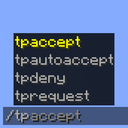
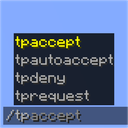
Limit Minecraft to 26.2.x on NeoForge and pin the conventions at 2.4.16
NeoForge now uses the conventions' ${minecraft_version_range}, matching Fabric's ~${minecraft_version}; loaders and libraries stay open-ended.

The icon is now square at a power of two (512 or 1024 px); docs/icon/README.md records how it was rescaled.

diff --git a/docs/icon/provenance/native_scale.py b/docs/icon/provenance/native_scale.py
@@ -1,0 +1,68 @@
+#!/usr/bin/env python3
+"""Turn the native capture crop into the shipped square icon (Pillow 12.3.0).
+
+The crop is Minecraft GUI pixel art: every GUI pixel is a BLOCK x BLOCK square of one
+colour. This script recovers the native GUI-pixel image by taking each block's majority
+colour (ties, which only occur on the faint sky-gradient seams, go to the candidate
+colour that is most common in the surrounding 3x3 blocks, then to the smallest RGB
+value), enlarges it FACTOR times with NEAREST, centres it on a transparent CANVAS x CANVAS
+square and writes ../icon.png. The mod's shipped copies are that icon resized to 128x128
+with LANCZOS.
+
+Run from docs/icon/provenance: python3 native_scale.py
+"""
+from collections import Counter
+from pathlib import Path
+
+from PIL import Image
+
+HERE = Path(__file__).resolve().parent
+REPO = HERE.parents[2]
+SOURCE = HERE / "capture-crop.png"  # the delivered 340x340 capture crop; its source frame is lost
+BOX = None
+BLOCK, FACTOR, CANVAS = 4, 6, 512  # GUI scale 4 -> 85x85 native, x6 = 510 on 512
+SHIPPED = (
+    "common/src/main/resources/assets/simpletpa/icon.png",
+    "fabric/src/gametest/resources/assets/simpletpa/icon.png",
+)
+
+
+def native(crop):
+    w, h = crop.size
+    assert w % BLOCK == 0 and h % BLOCK == 0, (w, h, BLOCK)
+    px = crop.load()
+    nw, nh = w // BLOCK, h // BLOCK
+    counts = [
+        [Counter(px[bx * BLOCK + i, by * BLOCK + j] for i in range(BLOCK) for j in range(BLOCK)) for bx in range(nw)]
+        for by in range(nh)
+    ]
+    out = Image.new("RGB", (nw, nh))
+    op = out.load()
+    ties = 0
+    for by in range(nh):
+        for bx in range(nw):
+            c = counts[by][bx]
+            top = max(c.values())
+            cands = [col for col, n in c.items() if n == top]
+            if len(cands) > 1:
+                ties += 1
+                around = Counter()
+                for y in range(max(0, by - 1), min(nh, by + 2)):
+                    for x in range(max(0, bx - 1), min(nw, bx + 2)):
+                        around.update(counts[y][x])
+                cands.sort(key=lambda col: (-around[col], col))
+            op[bx, by] = cands[0]
+    return out, ties
+
+
+crop = Image.open(SOURCE).convert("RGB")
+if BOX is not None:
+    crop = crop.crop(BOX)
+small, ties = native(crop)
+big = small.resize((small.width * FACTOR, small.height * FACTOR), Image.Resampling.NEAREST)
+icon = Image.new("RGBA", (CANVAS, CANVAS))
+icon.paste(big, ((CANVAS - big.width) // 2, (CANVAS - big.height) // 2))
+icon.save(HERE.parent / "icon.png")
+for rel in SHIPPED:
+    icon.resize((128, 128), Image.Resampling.LANCZOS).save(REPO / rel)
+print(f"native {small.size}, {ties} tied blocks, x{FACTOR} -> {big.size} centred on {CANVAS}x{CANVAS}")

diff --git a/docs/icon/README.md b/docs/icon/README.md
@@ -2,11 +2,15 @@
 
 ## What this is
 
-The mod's icon: `icon.png` — 340x340 RGB PNG, 2 927 bytes,
[1 lines of base64/hex data omitted]
+The mod's icon: `icon.png` — 512x512 RGBA PNG, 4 573 bytes,
[1 lines of base64/hex data omitted]
 
-It is a real in-game screenshot of the mod's `/tp` tab-completion, cropped to a square at
-native GUI scale 4. No resize, no resampling, no interpolation, no compositing, no padding.
+It is a real in-game screenshot of the mod's `/tp` tab-completion: the 340x340 square capture
+crop `provenance/capture-crop.png` (GUI scale 4), reduced to its native 85x85 GUI pixels,
+enlarged 6x with NEAREST to 510x510 and centred on a transparent 512x512 canvas (1 px margin).
+No interpolation, no compositing. The mod ships 128x128 LANCZOS reductions of `icon.png` at
+`common/src/main/resources/assets/simpletpa/icon.png` and
+`fabric/src/gametest/resources/assets/simpletpa/icon.png`.
 
 ## How it was made
 
@@ -29,13 +33,26 @@ The screenshot itself comes from the BrainageHUD/UI capture session (round-3 `ca
 The client completes `/tp` to `/tpaccept` and draws the completions `tpaccept` (selected,
 yellow), `tpautoaccept`, `tpdeny` and `tprequest` above the input line.
 
-The delivered image is the exact integer crop `(0, 1820, 340, 2160)` of that 3840x2160 frame.
+The capture crop `provenance/capture-crop.png` (340x340 RGB, 2 927 bytes, sha256
[1 lines of base64/hex data omitted]
+shipped as `icon.png` itself, moved here unchanged) is the exact integer crop
+`(0, 1820, 340, 2160)` of that 3840x2160 frame.
 It was derived twice: `captures-crops/crop.py` measured the entry block by ink detection and
 produced a 340x340 square by trimming 52 px from the top and the right of the previous
 392x392 crop, then `captures-crops2/crop.py` copied that file byte for byte into the round-3
 delivery tree, and `captures-crops2/verify.py` asserted the byte identity.
 
-Layout inside the delivered image (measured, native pixels): the entry block (the suggestion
+**Native-scale enlargement (2026-10-02).** The icon rule is square, a power of two, 512 or
+1024 px. The crop is pixel art: 13 colours, on GUI scale 4's 4x4 grid (aligned with the crop).
+7 121 of its 7 225 blocks are a single colour; the other 104 lie on faint diagonal seams in the
+sky and panel shading where the colours differ by at most 1 level per channel.
+`native_scale.py` takes each block's majority colour (7 blocks have no strict majority and go to
+the colour that dominates the surrounding 3x3 blocks) to recover the native 85x85 image, enlarges
+it by the largest integer factor that fits 512 (6x, 510x510) with NEAREST, and centres it on
+a transparent 512x512 canvas. A LANCZOS 340→512 resize was rejected because it blurs every
+GUI pixel edge.
+
+Layout inside the capture crop (measured, crop pixels): the entry block (the suggestion
 panel including its translucent background) occupies `x 36..303, y 88..280`, so the sky
 margins are exactly 36 px left and 36 px right; the chat input line below shows `/tpaccept`
 and its text ink (`x 16..215`) is fully inside the crop. The frame's full-width chat bar runs
@@ -49,8 +66,10 @@ top level (and `evidence/`) is the later round-3 delivery pass that copied and r
 
 | Path | What it is |
 |---|---|
+| `capture-crop.png` | **The 340x340 capture crop** (formerly `icon.png`, byte-identical) — the only surviving copy of this crop |
+| `native_scale.py` | **The script that writes `icon.png`** from `capture-crop.png` (native 85x85 recovery, 6x NEAREST, centred on 512x512) and the two shipped 128x128 copies |
 | `manifest.json` | Round-3 delivery record: label, method ("byte-identical copy of approved reference"), source, measured sky margins, ink box and crop box |
-| `captures-crops/crop.py` | **The script that produced the image** — ink detection on the 3840x2160 frame, square side `2 * sky_left + block_width`, anchored on the frame's left/bottom edge, with assertions that the block and the input line stay inside |
+| `captures-crops/crop.py` | **The script that produced the capture crop** — ink detection on the 3840x2160 frame, square side `2 * sky_left + block_width`, anchored on the frame's left/bottom edge, with assertions that the block and the input line stay inside |
 | `captures-crops/crop-report.json` | Full measurement of the derivation: old 392 px square and its 88 px right margin, the new 340 px square, the entry block, the four entry line boxes, the glyph-only 344 px alternative, the 52 px top/right trim, the chat-bar top, and the per-file verification |
 | `captures-crops/verify.py`, `captures-crops/verification.json` | The independent re-check: exact pixels from the frame, sky left == sky right == 36 px, all four entries and the input line fully inside |
 | `captures-crops/ocr.py`, `captures-crops/ocr.json` | Exact client-font template matching that decodes the four entry texts and the input line — this is how the entries are named with certainty |
@@ -67,8 +86,15 @@ superseded 392x392 crop of the same frame.
 
 ## How to regenerate
 
-The image cannot be regenerated from anything shipped here, because its source frame was
-destroyed (Notes). The two derivations are nonetheless fully documented:
+`icon.png` is regenerated from the shipped capture crop (Pillow 12.3.0, from
+`docs/icon/provenance`):
+
+```sh
+python3 native_scale.py    # prints: native (85, 85), 7 tied blocks, x6 -> (510, 510) centred on 512x512
+```
+
+The capture crop itself cannot be regenerated from anything shipped here, because its source
+frame was destroyed (Notes). The two derivations are nonetheless fully documented:
 
 ```sh
 # 1. recreate the frame: re-run the UI capture session (see BrainageHUD's provenance)
@@ -90,10 +116,10 @@ superseded icons and are not needed for this one.
 * **The source frame is gone.** `captures-crops/blockers.json` records it: the full-frame files
   referenced by the crop report (`captures-ui/renders/frames/simpletpa-tp-full.png`) were
   deleted before the later crop pass, and re-opening them raised `FileNotFoundError`. The
-  approved 340x340 PNG survived, and that PNG is the delivered icon — it is the only surviving
-  copy of this crop. Both sessions' measurement records are shipped, so the geometry remains
-  reproducible *if* the scene is re-captured.
-* The delivered file is byte-identical to the earlier approved reference
+  approved 340x340 PNG survived, and that PNG is `capture-crop.png` (shipped as the icon until
+  2026-10-02) — it is the only surviving copy of this crop. Both sessions' measurement records
+  are shipped, so the geometry remains reproducible *if* the scene is re-captured.
+* The capture crop is byte-identical to the earlier approved reference
   (`captures-crops/simpletpa-autocomplete-square.png`, the same sha256); it was not re-captured
   and not re-cropped in the later pass, only copied and re-verified.
 * The crop keeps the frame's left and bottom edges and trims only the top and the right, so the
